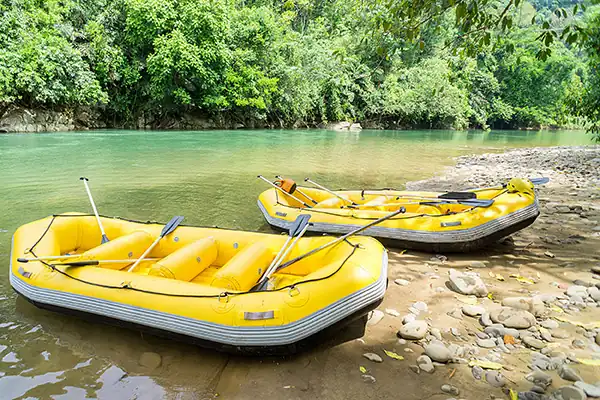
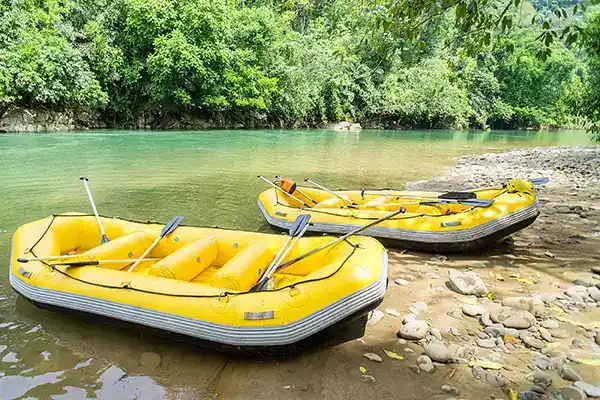
I finished it, roughly.

diff --git a/wwr/about.html b/wwr/about.html
@@ -17,19 +17,19 @@
 		<img src="images/wwr-logo.webp"
 		  alt="White Water Rafting Logo | a background layers of blue and white for the sky, green for the trees, and blue for the water, encased in a circle, and over it the word 'Rapids' in big thick wavy white lettering, exuding wetness">
 		<nav class="flex-container">
-				<div class="flex-item item 1">
-					<a href="index.html">Home</a>
-				</div>
-				<div class="flex-item item2">
-					<a href="about.html">About Us</a>
-				</div>
-				<div class="flex-item item3">
-					<a href="trips.html">Trips</a>
-				</div>
-				<div class="flex-item item4">
-					<a href="contact.html">
-						Contact Us</a>
-				</div>
+			<div class="flex-item item 1">
+				<a href="index.html">Home</a>
+			</div>
+			<div class="flex-item item2">
+				<a href="about.html">About Us</a>
+			</div>
+			<div class="flex-item item3">
+				<a href="trips.html">Trips</a>
+			</div>
+			<div class="flex-item item4">
+				<a href="contact.html">
+					Contact Us</a>
+			</div>
 		</nav>
 	</header>
 
@@ -70,57 +70,46 @@
 
 			<h2>History</h2> <!--history-section-->
 			<div class="history-flex-container">
-				<p> White Water Rafting was founded in the obscure little town of {Lorem, Ipsum}
-					US, which rested along the {Adipiscing River}. Our company was founded in
-					{Wemerns.day} the {aludivag.th} in {similique- month, nisimin-year}, in
-					the humble {diutam-room} of the {temphariat-building}. It was founded by
-					{Fugaids Vouptatem}, along with {Alicam Undi}, {Natus Culp} and {Ulam Dulk},who
-					were dear friends of {iu}. We founded this organization in the hopes that{{hin
-					possinust und ipsum officilse laborum sequi dolor que seguios accusntiuman}},and
-					thus the seed was born. From there we {{ducimusm cim iuset dolsoipsan ein
-					vodats. Dolor que pariaturn repudiandant quasi quam aboren debitis magnis}},and
-					continued to expanded our business as we {{nostrum ratione id expedita suns eum
-					eiu eldentlur, tomal dirdunction}}</p>
-				<img src="images/history-of.webp"
+				<p> White Water Rafting was founded in the obscure little town of Loremipsum
+					US, which rested along the Adipiscing River. It was founded by
+					Fugaids Vouptatem, along with Alicam Undi and Carson Cannon. We founded this
+					organization so people could enjoy the river . Thus the seed was born. From
+					there we advertized and it became very popular, and
+					continued to expanded our business as we hired people.</p>
+				<img class="history-img" src="images/history-of.webp"
 				  alt=" two rafts touching the land from the edge of the river bank">
-				<p>.From there it grew even bigger as we
-					{{possimus natus thadunt gan undeipsumb offlenaturism voluautem temp arnito
-					inventore perferendis natus aliast}} as well as {{inchent eperferend natus
-					alias arstitact quasin repudiandant aliquain nos. Magni anim quiln asperiors
-					sunt belin}}. Though we faced some troubles along the way, like:{{consect imper,
-					accusantium desterunt nond dolorum}}, and even {{temport, accusantian aspernatur
-					voluptes magnam in, sede obcaecati le consequatur atart lexo exercitationem.}}
-					But, we were able to overcome them as we {{minjima blanditiis bolis perspiciatis
-					sed placen nulla nisi obcaecati, pariatur, harum aljias nesciunt cerroren
-					recusandae}}. From there we {{ilias nesciunt errar recusandant ipstal ulan. Ist,
-					oit! Quibusdam a totamn. Tempoar, aliobcan magnam quis un}}, which has taught us
-					that {{Quim autem tempore, accusantium aspernatur voluptas magnam!}}
+				<p>From there it grew even bigger as we
+					hired people with much education, so we could handle logistical challanges, and
+					expanded our domain to other areas.
+					Though we faced some troubles along the way, like dealing with bottlenecks, we
+					were able to overcome it with smart planning. Smart planning is why we were able
+					to ensure safety. We learned, "always be prepared".
 				</p>
 			</div>
 		</section>
 
 		<section> <!--adventure-section-->
 			<h2>Adventure Awaits You!</h2>
-			<div class="rivers-imgs">
+			<div class="rivers">
 				<figure>
-					<img src="images/instagra-.webp" alt="img1">
-					<figcaption>@1</figcaption>
+					<img src="images/black--river.jpg" alt="img1">
+					<figcaption>Black River</figcaption>
 				</figure>
 				<figure>
-					<img src="images/instagra-.webp" alt="img2">
-					<figcaption>@2</figcaption>
+					<img src="images/splash-river.jpg" alt="img2">
+					<figcaption>Splash River</figcaption>
 				</figure>
 				<figure>
-					<img src="images/instagra-.webp" alt="img3">
-					<figcaption>@3</figcaption>
+					<img src="images/marbl-river.jpg" alt="img3">
+					<figcaption>Marble River</figcaption>
 				</figure>
 				<figure>
-					<img src="images/instagra-.webp" alt="img4">
-					<figcaption>@4</figcaption>
+					<img src="images/madmans-r.jpg" alt="img4">
+					<figcaption>Mad Man's River</figcaption>
 				</figure>
 				<figure>
-					<img src="images/instagra-.webp" alt="img5">
-					<figcaption>@5</figcaption>
+					<img src="images/angel-river.jpg" alt="img5">
+					<figcaption>Angel River</figcaption>
 				</figure>
 			</div>
 		</section>

diff --git a/wwr/styles/rafting.css b/wwr/styles/rafting.css
@@ -32,7 +32,6 @@ header img{
 header .flex-container {
 	/*flex-container*/
 	grid-column: 3/3;
-	font-size: auto;
 	display: flex;
 	justify-content: center;
 	align-items: center;
@@ -80,24 +79,35 @@ nav, p, section, article {
 	padding: 20px;
 }
 
+
+
 .history-flex-container{
 	display: flex;
+	align-content: center;
 }
 
-.rivers-imgs{
+.rivers {
 	display: flex;
+	padding-left: 10%;
 }
 
-.rivers-imgs img{
-	width: 50%;
+.rivers img{
+	width: 6em;
 	height: auto;
+	margin: 1rem;
+	align-items: center;
 }
 
-section img {
+
+
+.history-img {
 	width: 30%;
 	height: auto;
 	align-self: center;
 }
+
+
+section img
 
 nav {
 	background-color: var(--accent-color2)
